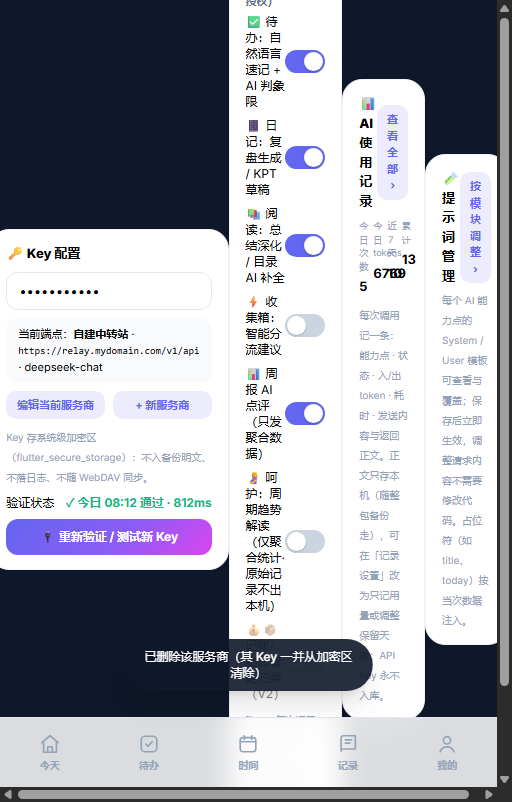
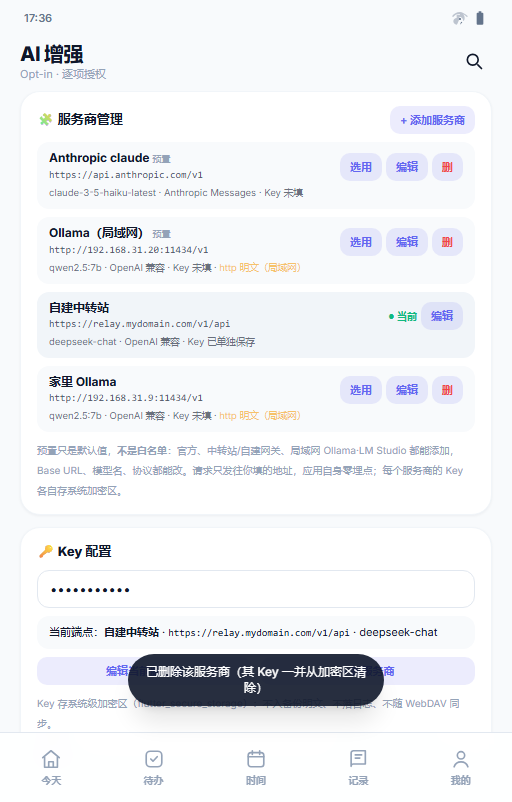
fix(proto): 补回服务商卡改造时多出的一个 </div>（壳层被拆散·页面全塌）+ 新增结构体检守护
- 现象（用户截图）：AI 增强页整版被拆成多条竖排窄列，多个 page 段并排显示
- 根因：aip_patch.js ① 替换服务商卡时，原文里 `<div class="mt-2 space-y-2 text-xs">` 的闭合标签留在被替换区之外，而新片段已自闭合 #aiProvList → 多出一个 `</div>`，提前闭合 .card 与 section，后续卡片全部掉到壳层外
- 我的误判记录（写下来防再犯）：先前用量宽脚本看到 40px，拿未改动页对比也 40px 就判成「测量假象」——其实那正是整壳塌陷的表现，全页一起塌所以对比不出差异；判据应是「div 配平数与基线一致 + section 必须在 main 内 + 宽度≈壳宽」
- 新增 tools/protostructcheck.js：① 静态 div/section 配平锁基线（index.html 历史多一个未闭合 div，等值才算正常，多一个少一个都红）② 运行期 34 个 section.page 必须全部 closest('main') ③ 11 个关键页激活后宽度 >350px ④ 服务商卡与入口卡层级 ⑤ 零 JS 异常 → 6/6 PASS
- aiprovcheck 加 P11（正常 navTo 路径下整页宽度与服务商行数 + 截图 aip-page-full.png）→ 11/11；aiusagecheck 复跑 20/20；checkinline OK

diff --git a/tools/protostructcheck.js b/tools/protostructcheck.js
@@ -1,0 +1,85 @@
+/* 原型结构体检：防「HTML 少一个/多一个闭合标签」把壳层拆坏
+ * —— 这类破坏不会报 JS 语法错（checkinline 查不出），也不会让按 id 取节点的断言失败，
+ *    只有量结构与宽度才看得见。用法：node --experimental-websocket tools/protostructcheck.js */
+const { spawn } = require('child_process');
+const fs = require('fs'), path = require('path'), http = require('http'), url = require('url');
+const CHROME = 'C:/Program Files/Google/Chrome/Application/chrome.exe';
+const F = 'prototype/index.html';
+const PORT = Number(process.env.PS_PORT || 9591);
+const LOG = 'tools/protostruct-run.log';
+let pass = 0, fail = 0; const errs = [];
+const log = m => { fs.appendFileSync(LOG, m + '\n'); console.log(m) };
+fs.writeFileSync(LOG, '== protostructcheck start ' + new Date().toISOString() + ' ==\n');
+const ok = (n, i) => { pass++; log('PASS ' + n + (i ? '  →  ' + i : '')) };
+const bad = (n, i) => { fail++; log('FAIL ' + n + '  →  ' + (i || '')) };
+const wait = ms => new Promise(r => setTimeout(r, ms));
+function get(u) { return new Promise(res => { try { http.get(u, r => { let d = ''; r.on('data', c => d += c); r.on('end', () => res(d)) }).on('error', () => res(null)) } catch (e) { res(null) } }) }
+let ws, idc = 0; const pend = new Map();
+function cmd(method, params) { return new Promise(res => { const id = ++idc; pend.set(id, res); ws.send(JSON.stringify({ id, method, params: params || {} })) }) }
+async function ev(expr) {
+  const m = await cmd('Runtime.evaluate', { expression: 'JSON.stringify((function(){' + expr + '})())', returnByValue: false });
+  const r = m.result && m.result.result; try { return JSON.parse(r.value) } catch (e) { return { __err: (r && r.value) || JSON.stringify(m).slice(0, 200) } }
+}
+/* 静态配平基线：index.html 历史上就比闭合多一个 <div（浏览器在 </body> 处自动收口），
+   所以这里锁「等于基线值」而不是等于 0——多一个或少一个闭合都立刻红。 */
+const BASE_DIV_DIFF = 1, BASE_SECTION_DIFF = 0;
+const src = fs.readFileSync(F, 'utf8');
+const divDiff = (src.match(/<div[\s>]/g) || []).length - (src.match(/<\/div>/g) || []).length;
+const secDiff = (src.match(/<section[\s>]/g) || []).length - (src.match(/<\/section>/g) || []).length;
+(divDiff === BASE_DIV_DIFF ? ok : bad)('静态 div 配平 = 基线 ' + BASE_DIV_DIFF, '实际 ' + divDiff);
+(secDiff === BASE_SECTION_DIFF ? ok : bad)('静态 section 配平 = 基线 ' + BASE_SECTION_DIFF, '实际 ' + secDiff);
+
+const PAGES = ['p-dashboard', 'p-todo', 'p-calendar', 'p-profile', 'p-inbox', 'p-records',
+  'p-sub-ai', 'p-aiUsage', 'p-logs', 'p-timeStats', 'p-habits'];
+
+(async () => {
+  if (!fs.existsSync(CHROME)) { bad('chrome 存在'); return finish() }
+  const chrome = spawn(CHROME, ['--headless=new', '--disable-gpu', '--no-first-run', '--remote-debugging-port=' + PORT,
+    '--user-data-dir=' + path.resolve('tools/.ps-profile'), '--disable-extensions', '--no-default-browser-check',
+    '--window-size=430,900', '--allow-file-access-from-files', 'about:blank'], { stdio: 'ignore' });
+  let data = null;
+  for (let i = 0; i < 60; i++) { const d = await get('http://127.0.0.1:' + PORT + '/json'); if (d) { try { data = JSON.parse(d); if (data.some(x => x.type === 'page')) break } catch (e) { } } await wait(300) }
+  ws = new WebSocket(data.find(t => t.type === 'page').webSocketDebuggerUrl);
+  await new Promise(r => { ws.addEventListener('open', r); setTimeout(r, 3000) });
+  ws.addEventListener('message', e2 => { const m = JSON.parse(e2.data);
+    if (m.id && pend.has(m.id)) { pend.get(m.id)(m); pend.delete(m.id) }
+    if (m.method === 'Runtime.exceptionThrown') errs.push(((m.params.exceptionDetails.exception || {}).description || '').slice(0, 200)) });
+  await cmd('Runtime.enable'); await cmd('Page.enable');
+  await cmd('Page.navigate', { url: url.pathToFileURL(path.resolve(F)).href }); await wait(2800);
+
+  /* ① 所有 .page 段都必须在壳层容器里（漏闭合标签会把后续段甩到壳外） */
+  const r1 = await ev(`var all=$$('section.page'),inMain=0;
+    [].forEach.call(all,function(s){if(s.closest('main'))inMain++;});
+    return {all:all.length,inMain:inMain,mainW:Math.round((document.querySelector('main')||{getBoundingClientRect:()=>({width:0})}).getBoundingClientRect().width)};`);
+  (r1.all > 20 && r1.all === r1.inMain && r1.mainW > 380)
+    ? ok('① ' + r1.all + ' 个 page 段全部在 main 壳内 · 壳宽 ' + r1.mainW + 'px') : bad('① page 段归属', JSON.stringify(r1));
+
+  /* ② 逐页激活量宽：被拆坏的页会塌成 padding 宽（≈40px） */
+  const r2 = await ev(`var out=[];['${PAGES.join("','")}'].forEach(function(p){
+      var el=document.getElementById(p);if(!el){out.push(p+':missing');return}
+      $$('.page').forEach(function(s){s.classList.remove('active')});
+      el.classList.add('active');
+      out.push(p+':'+Math.round(el.getBoundingClientRect().width));
+    });return {out:out};`);
+  const thin = (r2.out || []).filter(x => !/:missing/.test(x) && parseInt(x.split(':')[1], 10) < 350);
+  const missing = (r2.out || []).filter(x => /missing/.test(x));
+  (thin.length === 0 && missing.length === 0)
+    ? ok('② ' + r2.out.length + ' 个关键页激活后宽度均 >350px', r2.out.join(' ')) : bad('② 页面宽度', '窄=' + thin.join(',') + ' 缺=' + missing.join(','));
+
+  /* ③ 关键节点父子关系没被拆散（服务商列表在卡内、AI 记录页在壳内） */
+  const r3 = await ev(`var list=document.getElementById('aiProvList');
+    var card=list?list.closest('.card'):null;
+    var au=document.getElementById('p-aiUsage');
+    return {listInCard:!!card,cardHasTitle:!!(card&&/服务商管理/.test(card.textContent)),
+      auInMain:!!(au&&au.closest('main')),
+      usageCardInAiPage:!!(document.getElementById('auK1')&&document.getElementById('auK1').closest('#p-sub-ai'))};`);
+  (r3.listInCard && r3.cardHasTitle && r3.auInMain && r3.usageCardInAiPage)
+    ? ok('③ 服务商卡与 AI 使用记录入口卡层级正确') : bad('③ 层级', JSON.stringify(r3));
+
+  /* ④ 零 JS 异常 */
+  (errs.length === 0 ? ok : bad)('④ 运行期零 JS 异常', errs.join(' | '));
+  finish();
+  try { chrome.kill('SIGKILL') } catch (e) { }
+})();
+
+function finish() { log('== ' + pass + ' PASS / ' + fail + ' FAIL =='); process.exit(fail ? 1 : 0); }

diff --git a/tools/aiprovcheck.js b/tools/aiprovcheck.js
@@ -124,6 +124,15 @@ const ROWS = "[].map.call(document.querySelectorAll('#aiProvList > div'),functio
   (errs.length === 0 && leak.length === 0)
     ? ok('P10 零 JS 异常 · 无 undefined/NaN/[object Object] 泄漏', errs.join('|')) : bad('P10', errs.join('|') + ' leak=' + leak);
 
+  /* P11 正常导航路径下的整页截图（navTo 走栈，与真人点开一致） */
+  await ev(`navTo('p-sub-ai');return 1;`); await wait(500);
+  await shot('aip-page-full');
+  const p11 = await ev(`var el=document.getElementById('p-sub-ai');
+    return {w:Math.round(el.getBoundingClientRect().width),rows:document.querySelectorAll('#aiProvList > div').length,
+      inMain:!!el.closest('main')};`);
+  (p11.w > 380 && p11.rows === 4 && p11.inMain)
+    ? ok('P11 正常导航下 AI 增强页版式完好（宽 ' + p11.w + 'px · 服务商 4 行）', JSON.stringify(p11)) : bad('P11', JSON.stringify(p11));
+
   await shot('aip-final');
   finish();
   try { chrome.kill('SIGKILL') } catch (e) { }

diff --git a/prototype/index.html b/prototype/index.html
@@ -1439,7 +1439,6 @@ tailwind.config = {
         <div class="flex items-center justify-between"><div class="row-title">🧩 服务商管理</div><button class="mini-btn" onclick="aiProvEdit(null)">+ 添加服务商</button></div>
         <div class="mt-2 space-y-2 text-xs" id="aiProvList"></div>
         <div class="text-[10px] text-slate-400 mt-2 leading-5">预置只是默认值，<b>不是白名单</b>：官方、中转站/自建网关、局域网 Ollama·LM Studio 都能添加，Base URL、模型名、协议都能改。请求只发往你填的地址，应用自身零埋点；每个服务商的 Key 各自存系统加密区。</div>
-        </div>
       </div>
       <div class="card mt-3">
         <div class="row-title">🔑 Key 配置</div>
